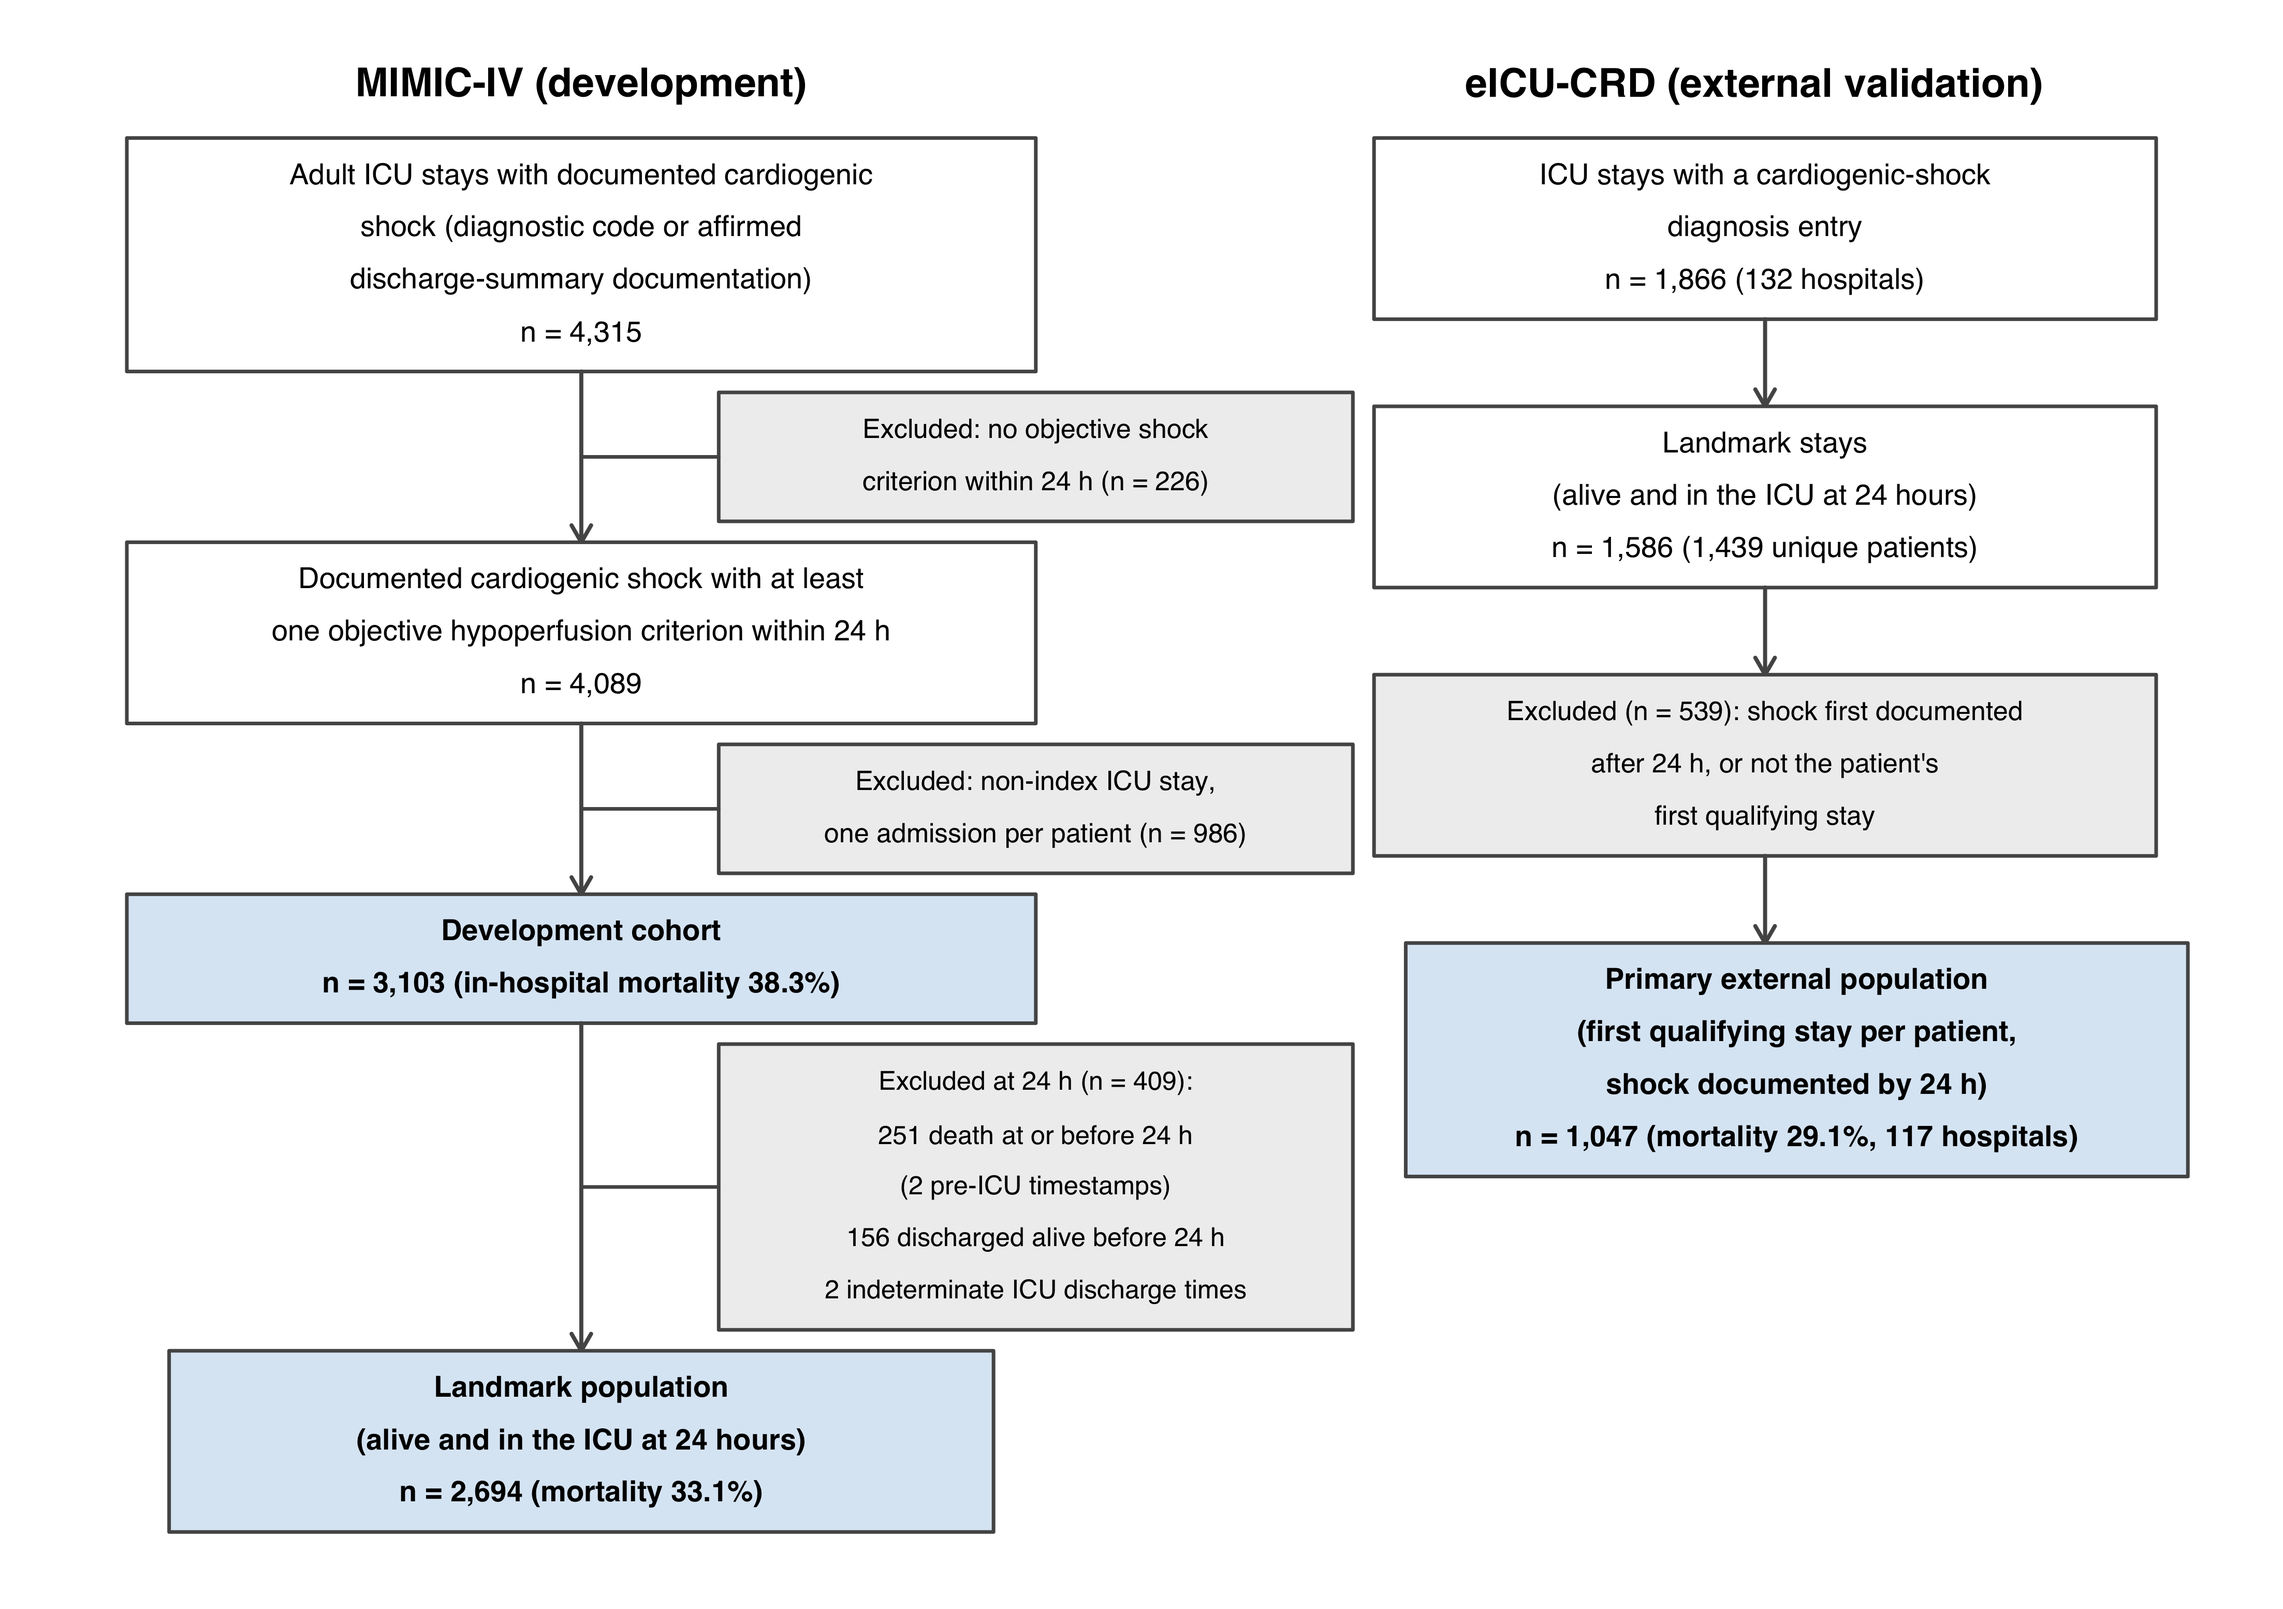
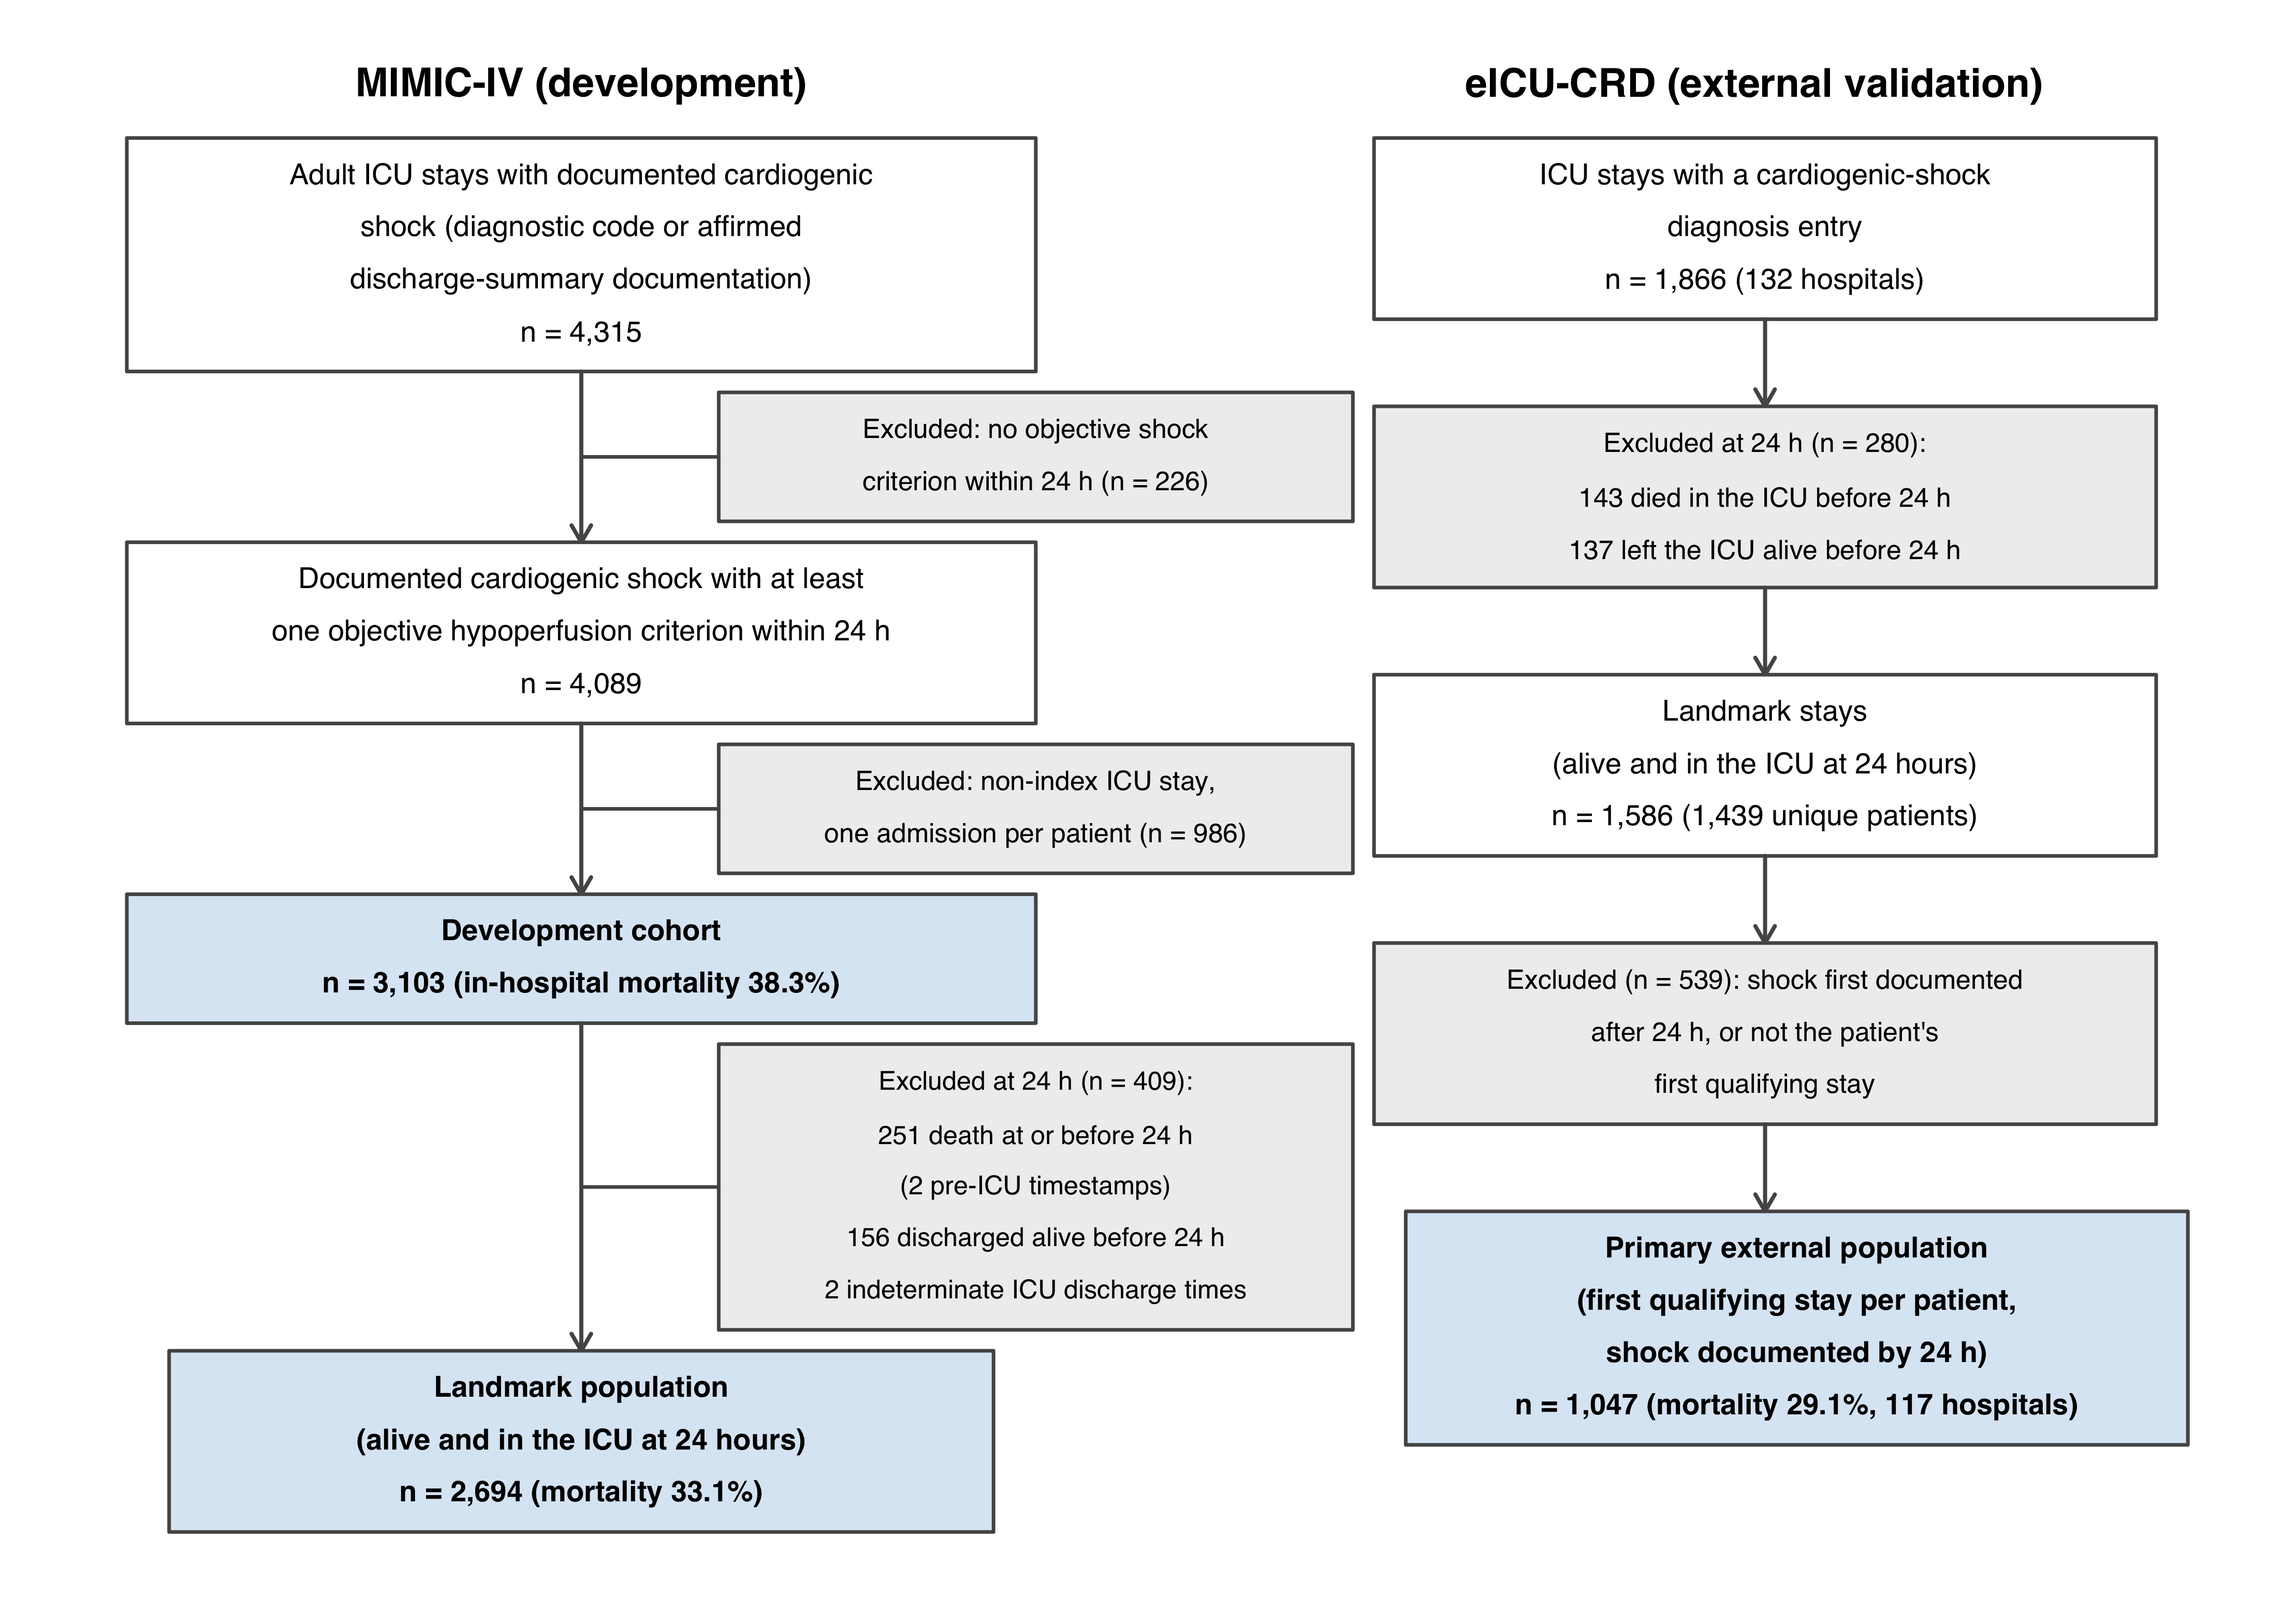
Show the eICU landmark exclusions in Figure S1 and tighten manuscript pointers
Figure S1's eICU column now shows the 280 stays excluded at 24 hours (143
died in the ICU, 137 left alive), as the MIMIC-IV column does; step 14
records the counts and the ledger checks them with the corrected arrest-point
count. Manuscript: the Methods state that influence-function intervals are
internal only; the 0.778 sentence names the retained all-admissions
analysis; the Table 1 note says what Figures S3 to S5 show; the Figure 1
legend says S6 is MIMIC-IV; BOS,MA2's eICU development cites [7]; the
score-change sentence cites Table S11. Narrative count unchanged.

Changed region(s): [[0.5902, 0.5618, 0.963, 0.9051], [0.6524, 0.4369, 0.8698, 0.5306], [0.6834, 0.2497, 0.8698, 0.3433]]

diff --git a/pipeline/verify_ledger.py b/pipeline/verify_ledger.py
@@ -176,4 +176,16 @@ checked += 2
 # remain fully checked against card_rederivation.csv, and the document no
 # longer prints them.
 
+# eICU counts printed in the Table S2(B) note and Figure S1 (step 14). The
+# arrest-point count is the one after late-documented arrests are zeroed, as
+# in the primary analyses; 147 (before zeroing) was once printed in error.
+_rv = pd.read_csv(OUT + 'reported_values.csv').set_index('item')['value']
+_iv = lambda k: int(float(_rv[k]))          # the column is read as float
+assert (_iv('eicu_landmark_staged_E'), _iv('eicu_landmark_arrest_point')) == (238, 142)
+checked += 1
+_ex, _di, _la = (_iv(k) for k in ('eicu_excluded_at_24h', 'eicu_excluded_at_24h_died_in_icu',
+                                  'eicu_excluded_at_24h_left_icu_alive'))
+assert (_ex, _di, _la) == (280, 143, 137) and _di + _la == _ex == 1866 - 1586, (_ex, _di, _la)
+checked += 1
+
 print(f"verify_ledger: {checked} canonical checks passed")

diff --git a/pipeline/14_reported_values.py b/pipeline/14_reported_values.py
@@ -113,5 +113,14 @@ rec('eicu_landmark_staged_E', int((_el['stage'] == 'E').sum()), 'any recorded ar
 rec('eicu_landmark_arrest_point', int(_el['ohca_arrest'].sum()),
     "score's arrest predictor, flags first documented after 24 h set to zero")
 
+# ---- eICU stays excluded at the 24-hour landmark (Supplementary Figure S1) ----
+_e = _g6['e']
+assert len(_e) == 1866
+_x = _e[_e['in_icu_at_24h'] == 0]
+assert len(_e) - len(_x) == 1586
+rec('eicu_excluded_at_24h', len(_x))
+rec('eicu_excluded_at_24h_died_in_icu', int(_x['died_icu_lt24h'].sum()))
+rec('eicu_excluded_at_24h_left_icu_alive', int((_x['died_icu_lt24h'] == 0).sum()))
+
 pd.DataFrame(rows).to_csv(OUT + 'reported_values.csv', index=False)
 print(f'\n[done] reported_values.csv ({len(rows)} values)')

diff --git a/manuscript/MANUSCRIPT.md b/manuscript/MANUSCRIPT.md
@@ -111,9 +111,7 @@ cohorts and is specified in Supplementary Table S3.
 
 Discrimination was summarized by the area under the receiver operating
 characteristic curve (AUROC). Internal validation used five-fold
-cross-validation with preprocessing within folds. CIs used influence-function
-estimation for continuous models [16] and patient-level bootstrap of
-out-of-fold integer scores (Table 1). Calibration used the calibration slope,
+cross-validation with preprocessing within folds. CIs used influence-function estimation for internal continuous models [16] and patient-level bootstrap otherwise (Table 1). Calibration used the calibration slope,
 calibration-in-the-large (CITL), and the Brier score. Clinical utility was
 assessed by decision-curve analysis. Correlations and variance inflation
 factors assessed collinearity. For external validation, continuous models and
@@ -145,8 +143,7 @@ inflation factors were ≤1.31 (Supplementary Table S6).
 Internal cross-validated AUROCs were 0.734 for the continuous lactate model,
 0.726 for the anion-gap model, and 0.727 for the integer score. Externally the
 anion-gap model reached 0.748 and the lactate model 0.759 (Table 1). Mortality by
-score band is reported in Supplementary Table S7. In MIMIC-IV, including
-patients who died or left the ICU before 24 hours yielded an AUROC of 0.778 for the lactate model (Supplementary Table S8). In fully nested
+score band is reported in Supplementary Table S7. In MIMIC-IV, the all-admissions analysis retained from the original submission gave an AUROC of 0.778 for the day-1 lactate model (Supplementary Table S8). In fully nested
 cross-validation, redevelopment from broader candidate pools did not improve
 on the fixed six-variable model (Supplementary Table S4).
 
@@ -216,8 +213,7 @@ recommend local evaluation before clinical use.
 
 Reapplying the 24-hour model at 48 hours improved discrimination internally,
 but the external difference remained uncertain, so serial validity is not
-established. The association between score change and subsequent death is a
-monitoring observation rather than a validated dynamic prediction model.
+established. The association between score change and subsequent death (Supplementary Table S11) is a monitoring observation rather than a validated dynamic prediction model.
 CS-MORT-6 is a stratification tool rather than a treatment determinant, and
 whether embedding it in a decision-support workflow improves outcomes requires
 prospective evaluation.
@@ -236,7 +232,7 @@ assessment time. Performance using only information available in real time at
 24 hours is therefore not established, and early emergency-department use and
 the effect of documentation delay were not evaluated.
 
-Because eICU contributed to BOS,MA2 development and informed some analytic
+Because eICU contributed to BOS,MA2 development [7] and informed some analytic
 choices in the present study, the external validation was not fully
 independent. Confirmation in an untouched cohort is needed.
 
@@ -273,8 +269,7 @@ differently in the two columns: externally, lactate categories when observed
 and anion-gap categories otherwise; internally, development-median categories
 for missing components; rescoring internally under the external rule gives 0.720 (Supplementary Table S7). AUROC, area under the receiver operating
 characteristic curve; CITL, calibration-in-the-large (negative values
-indicate overprediction); EHR, electronic health record. See Supplementary
-Figures S1 to S5.
+indicate overprediction); EHR, electronic health record. Supplementary Figures S3 to S5 show calibration, decision curves, and predicted versus observed mortality by integer score.
 
 ## Figure 1. In-hospital mortality by CS-MORT-6 tertile within EHR-derived SCAI stages
 
@@ -282,8 +277,7 @@ Bars show subsequent in-hospital mortality among patients alive and still in
 the ICU 24 hours after ICU admission in MIMIC-IV (A) and eICU (B). Tertiles
 were defined within each SCAI stage and separately within each cohort. Error
 bars show Wilson 95% confidence intervals. Group sizes are reported in Supplementary Table S9. Stage A was omitted (eight MIMIC-IV patients, no eICU
-patients, and no deaths). Supplementary Figure S6 repeats this analysis with
-cardiac arrest removed from the score and with the score restricted to the
+patients, and no deaths). Supplementary Figure S6 repeats this analysis in MIMIC-IV with cardiac arrest removed from the score and with the score restricted to the
 four predictors not used to assign stage; Supplementary Figures S7 and S8
 show 48-hour score trajectories and subgroup performance.
 
